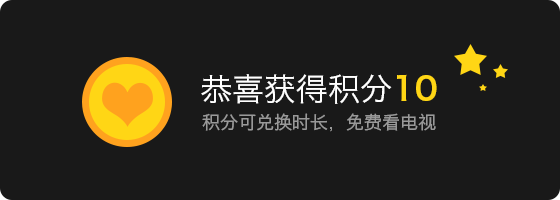
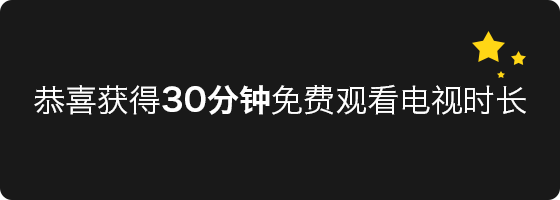
项目进度

Changed region(s): [[0.0607, 0.27, 0.9411, 0.75], [0.7893, 0.15, 0.9411, 0.39]]

diff --git a/pages/yuandanproject/contribution/contribution.js b/pages/yuandanproject/contribution/contribution.js
@@ -92,11 +92,25 @@ Page({
   onShareAppMessage: function () {
   
   },
-  gotoseeTv: function(){
-    let that = this;
-    wx.navigateTo({
-      url: '../freewatchtv/freewatchtv?qrid=' + that.qrid,
-    })
+  // gotoseeTv: function(){
+  //   let that = this;
+  //   wx.navigateTo({
+  //     url: '../freewatchtv/freewatchtv?qrid=' + that.qrid,
+  //   })
+  // },
+  gotoseeTv: function () {
+    new RequestEngine().request(config.canTrySee, { qrid: this.qrid }, { callBy: this, method: this.gotoseeTv, params: [] }, (success) => {
+      wx.showToast({
+        title: '成功',
+        icon: 'succes',
+        duration: 2000,
+        mask: true
+      })
+    }, (faild) => {
+
+    }, (requestComplete) => {
+
+    });
   },
   gotocontribution:function(){
     let that = this;

diff --git a/pages/yuandanproject2/vote/vote.js b/pages/yuandanproject2/vote/vote.js
@@ -118,10 +118,18 @@ Page({
 
   },
   gotoseeTv: function () {
-    let that = this;
-    wx.navigateTo({
-      url: '../../yuandanproject/freewatchtv/freewatchtv?qrid=' + that.qrid,
-    })
+    new RequestEngine().request(config.canTrySee, { qrid: this.qrid }, { callBy: this, method: this.gotoseeTv, params: [] }, (success) => {
+      wx.showToast({
+        title: '成功',
+        icon: 'succes',
+        duration: 2000,
+        mask: true
+      })
+    }, (faild) => {
+
+    }, (requestComplete) => {
+
+    });
   },
   gotocontribution: function () {
     let that = this;

diff --git a/pages/yuandanproject5/coupon/coupon.js b/pages/yuandanproject5/coupon/coupon.js
@@ -92,10 +92,18 @@ Page({
   },
 
   gotoseeTv: function () {
-    let that = this;
-    wx.navigateTo({
-      url: '../../yuandanproject/freewatchtv/freewatchtv?qrid=' + that.qrid,
-    })
+    new RequestEngine().request(config.canTrySee, { qrid: this.qrid }, { callBy: this, method: this.gotoseeTv, params: [] }, (success) => {
+      wx.showToast({
+        title: '成功',
+        icon: 'succes',
+        duration: 2000,
+        mask: true
+      })
+    }, (faild) => {
+
+    }, (requestComplete) => {
+
+    });
   },
   gotocoupon : function () {
     let that = this;

diff --git a/pages/yuandanproject3/ad/ad.js b/pages/yuandanproject3/ad/ad.js
@@ -94,10 +94,18 @@ Page({
 
   },
   gotoseeTv: function () {
-    let that = this;
-    wx.navigateTo({
-      url: '../../yuandanproject/freewatchtv/freewatchtv?qrid=' + that.qrid,
-    })
+    new RequestEngine().request(config.canTrySee, { qrid: this.qrid }, { callBy: this, method: this.gotoseeTv, params: [] }, (success) => {
+      wx.showToast({
+        title: '成功',
+        icon: 'succes',
+        duration: 2000,
+        mask: true
+      })
+    }, (faild) => {
+
+    }, (requestComplete) => {
+
+    });
   },
   gotoorder: function () {
     let that = this;

diff --git a/config.js b/config.js
@@ -6,8 +6,8 @@
 // 小程序后台服务解决方案：https://www.qcloud.com/solution/la
 
 
-//var host = 'www.maywidehb.com';
-var host = "192.168.1.118:8080"
+var host = 'www.maywidehb.com';
+// var host = "192.168.1.158:8015"
 var isHttps = (host == 'www.maywidehb.com')?true:false;
 var isDebug = true;
 var schema = isHttps ? 'https':'http';

diff --git a/pages/yuandanproject5/couponsuccess/couponsuccess.js b/pages/yuandanproject5/couponsuccess/couponsuccess.js
@@ -1,5 +1,8 @@
 // pages/yuandanproject5/couponsuccess/couponsuccess.js
 // pages/yuandanproject/contributionsuccess/contributionsuccess.js
+import RequestEngine from '../../../netApi/requestEngine.js';
+var config = require('../../../config.js');
+var util = require('../../../utils/util.js');
 Page({
 
   /**

diff --git a/pages/yuandanproject/contributionsuccess/contributionsuccess.js b/pages/yuandanproject/contributionsuccess/contributionsuccess.js
@@ -1,4 +1,7 @@
 // pages/yuandanproject/contributionsuccess/contributionsuccess.js
+import RequestEngine from '../../../netApi/requestEngine.js';
+var config = require('../../../config.js');
+var util = require('../../../utils/util.js');
 Page({
 
   /**

diff --git a/pages/yuandanproject2/votesuccess/votesuccess.js b/pages/yuandanproject2/votesuccess/votesuccess.js
@@ -1,4 +1,7 @@
 // pages/yuandanproject/contributionsuccess/contributionsuccess.js
+import RequestEngine from '../../../netApi/requestEngine.js';
+var config = require('../../../config.js');
+var util = require('../../../utils/util.js');
 Page({
 
   /**

diff --git a/pages/yuandanproject3/adordersuccess/adordersuccess.js b/pages/yuandanproject3/adordersuccess/adordersuccess.js
@@ -1,4 +1,7 @@
 // pages/yuandanproject3/adordersuccess/adordersuccess.js
+import RequestEngine from '../../../netApi/requestEngine.js';
+var config = require('../../../config.js');
+var util = require('../../../utils/util.js');
 Page({
 
   /**

diff --git a/pages/yuandanproject3/adorder/adorder.js b/pages/yuandanproject3/adorder/adorder.js
@@ -1,4 +1,7 @@
 // pages/yuandanproject3/adorder/adorder.js
+import RequestEngine from '../../../netApi/requestEngine.js';
+var config = require('../../../config.js');
+var util = require('../../../utils/util.js');
 Page({
 
   /**
